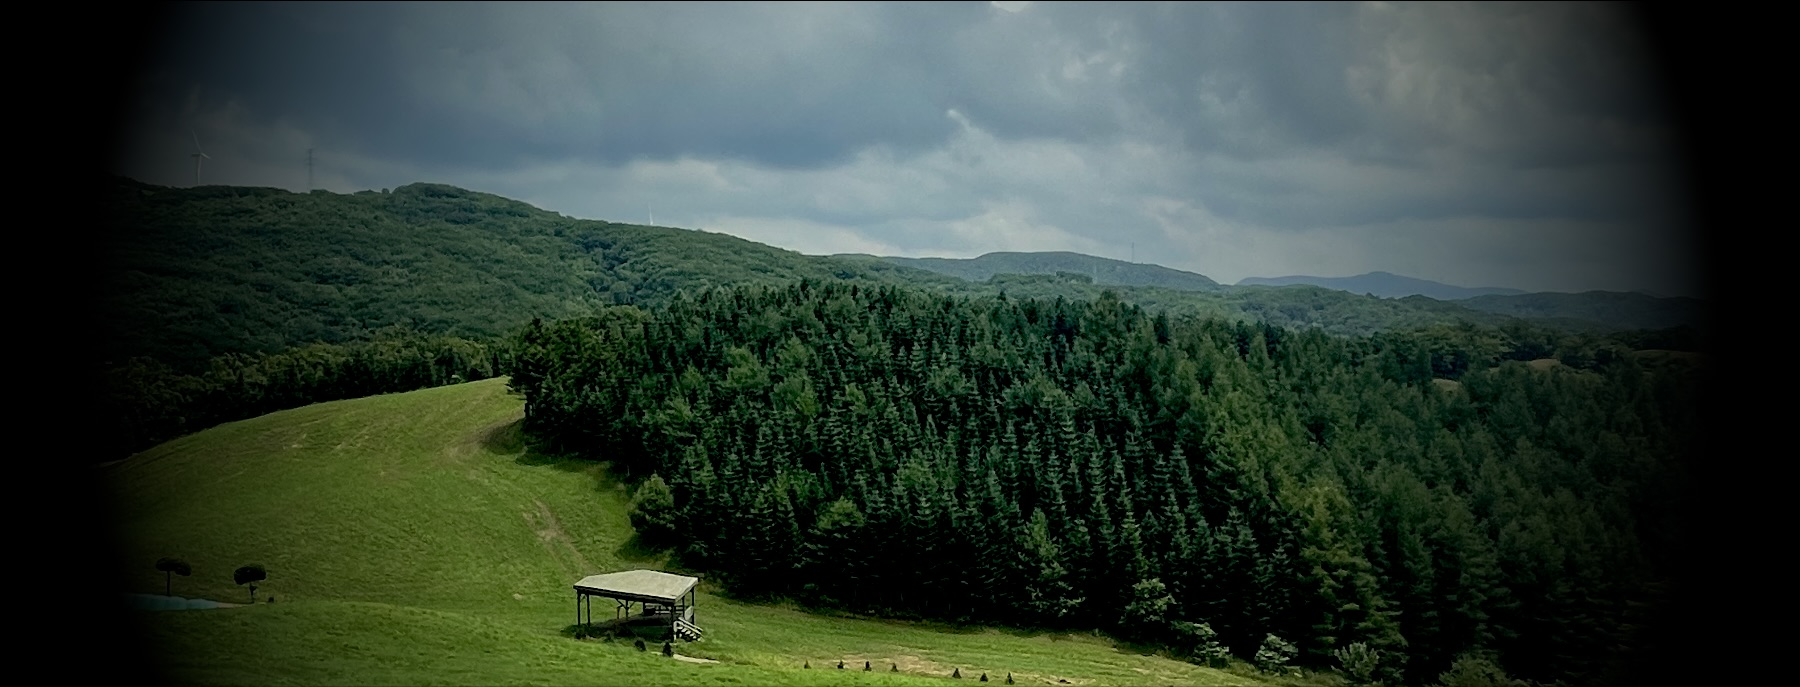
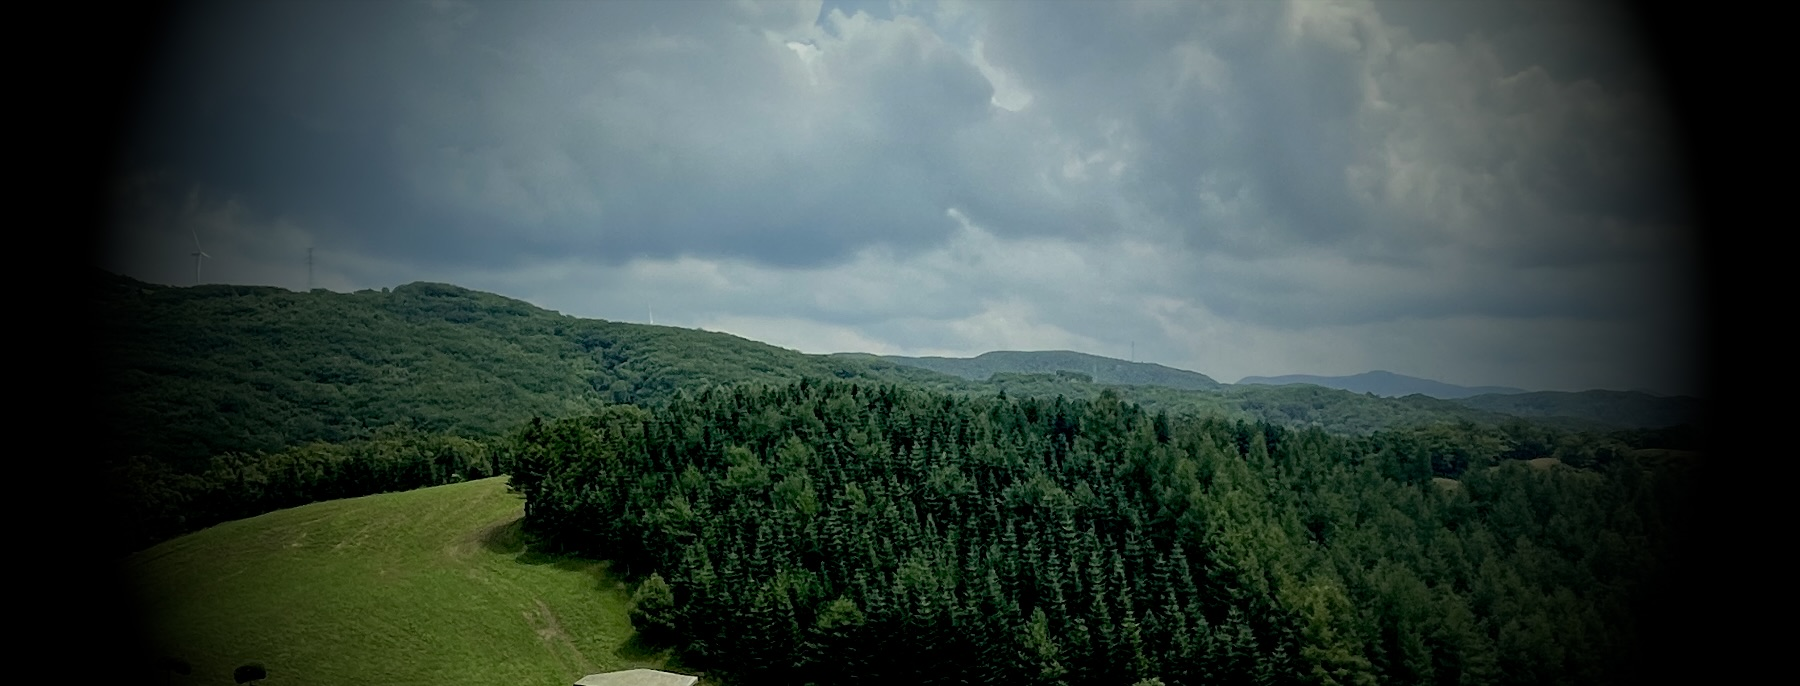
Strip order (core centred); band crop lower

diff --git a/index.html b/index.html
@@ -34,9 +34,9 @@
 </section>
 
 <div class="strip" aria-hidden="true">
-  <div class="card c1"><img src="assets/img/s_core.jpg" alt=""></div>
+  <div class="card c1"><img src="assets/img/s_lakewalk.jpg" alt=""></div>
   <div class="card c2"><img src="assets/img/s_winter.jpg" alt=""></div>
-  <div class="card c3"><img src="assets/img/s_lakewalk.jpg" alt=""></div>
+  <div class="card c3"><img src="assets/img/s_core.jpg" alt=""></div>
   <div class="card c4"><img src="assets/img/s_plot.jpg" alt=""></div>
   <div class="card c5"><img src="assets/img/s_grass.jpg" alt=""></div>
 </div>
